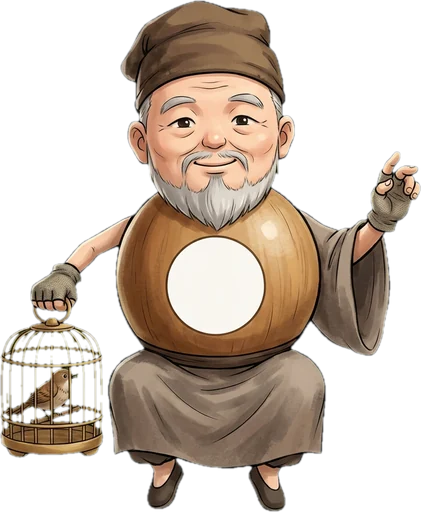
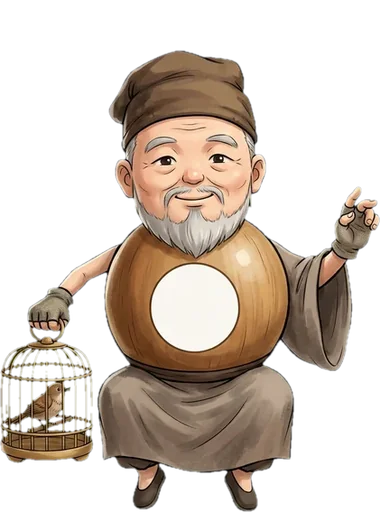
對手一律用畫好的形象（路人、故事人物、擂主、冷面國手、驛站旅人、秘境棋友），身上留白處寫擅長的棋子；平視改成從小帥眼睛看（回饋 430）；點頭像看 3D 人物（431）；故事目錄分站收合（432）；首頁大卡一行（436）

diff --git a/index.html b/index.html
@@ -271,7 +271,7 @@ html[data-era=ming] .topbar,html[data-era=qing] .topbar{border-bottom-width:4px}
 #preov{position:fixed;inset:0;z-index:9999;display:flex;align-items:flex-end;justify-content:center;background:#F3ECDD;padding:24px max(24px,env(safe-area-inset-left,0px)) max(28px,env(safe-area-inset-bottom,0px));transition:opacity .4s;overflow:hidden}#preov.out{opacity:0}
 .hub3{display:grid;gap:12px;margin-top:6px}.hub3 .hubc{display:flex!important;flex-direction:row!important;align-items:center!important;justify-content:flex-start!important;gap:14px;width:100%;min-height:112px;padding:16px 16px 16px 14px!important;text-align:left!important;position:relative}
 .hubc .hi{font-size:40px;width:64px;height:64px;display:flex;align-items:center;justify-content:center;flex:none;margin:0!important}.hubc .hi img{width:56px;height:56px;object-fit:contain}
-.hubc .tx{display:flex!important;flex-direction:column;gap:4px;flex:1;min-width:0;align-items:flex-start!important;text-align:left!important}.hubc .t{font-family:var(--serif);font-size:24px!important;font-weight:900;letter-spacing:.14em;line-height:1.2}.hubc .s{font-size:13px;line-height:1.5;color:var(--muted);white-space:normal!important;overflow:visible!important;text-overflow:clip!important;display:block}.hubc .go{flex:none;font-size:22px;color:var(--muted);margin:0!important}.hubc .bd{position:static!important;margin-left:8px;vertical-align:middle;letter-spacing:0;font-size:11px}
+.hubc .tx{display:flex!important;flex-direction:column;gap:4px;flex:1;min-width:0;align-items:flex-start!important;text-align:left!important}.hubc .t{font-family:var(--serif);font-size:24px!important;font-weight:900;letter-spacing:.14em;line-height:1.2}.hubc .s{font-size:13px;line-height:1.5;color:var(--muted);white-space:nowrap!important;overflow:hidden!important;text-overflow:ellipsis!important;display:block;max-width:100%}.hubc .go{flex:none;font-size:22px;color:var(--muted);margin:0!important}.hubc .bd{position:static!important;margin-left:8px;vertical-align:middle;letter-spacing:0;font-size:11px}
 .hubc.hb{border-color:color-mix(in srgb,#C8102E 40%,var(--line))}.hubc.ha{border-color:color-mix(in srgb,#8A5A2B 45%,var(--line))}.hubc.hl{border-color:color-mix(in srgb,#2E6E5E 45%,var(--line))}
 #sndPill{position:fixed;right:calc(12px + env(safe-area-inset-right,0px));bottom:calc(76px + env(safe-area-inset-bottom,0px));z-index:9000;padding:6px 12px;border-radius:99px;background:rgba(30,22,14,.78);color:#F6E7CF;font-size:13px;font-weight:700;pointer-events:none;animation:sndp 1.6s ease-in-out infinite}@keyframes sndp{50%{opacity:.6}}@media (prefers-reduced-motion:reduce){#sndPill{animation:none}}
 .instc{display:flex;align-items:center;gap:12px;width:100%;margin:0 0 12px;padding:12px 14px;text-align:left;font:inherit;color:inherit;cursor:pointer;border:2px dashed color-mix(in srgb,var(--accent) 55%,var(--line));background:color-mix(in srgb,var(--accent) 7%,var(--card))}.instc .ii{font-size:30px;flex:none}.instc .tx{display:flex;flex-direction:column;flex:1;min-width:0}.instc small{color:var(--muted);font-size:12.5px;line-height:1.5}.instc .go{color:var(--accent);font-size:20px}
@@ -279,6 +279,8 @@ html[data-era=ming] .topbar,html[data-era=qing] .topbar{border-bottom-width:4px}
 .pkview{position:absolute;right:calc(10px + env(safe-area-inset-right,0px));top:10px;z-index:6;border:none;border-radius:99px;padding:5px 11px;font:inherit;font-size:12.5px;font-weight:700;color:#F6E7CF;background:rgba(30,22,14,.55);backdrop-filter:blur(3px);cursor:pointer}
 .pkhint{position:absolute;inset:0;z-index:7;display:flex;flex-direction:column;align-items:center;justify-content:center;gap:4px;background:rgba(20,14,8,.38);color:#fff;text-align:center;pointer-events:none;transition:opacity .5s}.pkhint.out{opacity:0}.pkhint b{font-size:17px;margin-top:6px}.pkhint span{font-size:13px;opacity:.9}
 .pkh-hand{font-size:46px;animation:pkswipe 1.5s ease-in-out infinite}@keyframes pkswipe{0%,100%{transform:translateX(-46px)}50%{transform:translateX(46px)}}@media (prefers-reduced-motion:reduce){.pkh-hand{animation:none}}
+#pTop .av{cursor:pointer}
+.chg{margin:0 0 8px;border:1px solid var(--line);border-radius:14px;background:var(--card);overflow:hidden}.chg>summary{display:flex;justify-content:space-between;align-items:center;gap:8px;padding:12px 14px;cursor:pointer;list-style:none}.chg>summary::-webkit-details-marker{display:none}.chg>summary b{font-family:var(--serif)}.chg>summary span{color:var(--muted);font-size:13px;font-variant-numeric:tabular-nums}.chg>summary::after{content:"▾";color:var(--muted);margin-left:6px}.chg[open]>summary::after{content:"▴"}.chg .items{padding:0 8px 8px!important}
 .lvh{display:flex;justify-content:space-between;align-items:baseline;gap:8px;flex-wrap:wrap;margin:2px 2px 8px}.lvh b{font-family:var(--serif);font-size:17px}.lvh span{color:var(--muted);font-size:12.5px;font-variant-numeric:tabular-nums}
 .lvsay{line-height:1.85;white-space:pre-wrap;font-size:15px}.lvno{border-color:color-mix(in srgb,var(--red,#B5452B) 45%,transparent)}
 .lvch{display:grid;gap:8px;margin-top:10px}.lvch .btn{white-space:normal;text-align:left;width:100%}
@@ -551,7 +553,7 @@ html[data-era=ming] .topbar,html[data-era=qing] .topbar{border-bottom-width:4px}
       if(!window.caches)return go();caches.keys().then(function(ks){return Promise.all(ks.filter(function(k){return k.indexOf("xqlab-app-")===0}).map(function(k){return caches.delete(k)}))})
         .then(function(){return navigator.serviceWorker&&navigator.serviceWorker.getRegistration()}).then(function(r){return r&&r.update()}).catch(function(){}).then(go)}};setTimeout(chk,4000)})();
 </script>
-<script>window.XQ_OFFLINE=true;window.XQ_BUILD="20261104-1243";</script>
+<script>window.XQ_OFFLINE=true;window.XQ_BUILD="20261104-1342";</script>
 <script src="core.js"></script>
 <script src="engine.js"></script>
 <script src="local.js"></script>
@@ -1763,8 +1765,8 @@ function Home(v,hub){   /* hub：沒有＝首頁三張大卡；"battle"＝對戰
    ${!hub&&!store.get("campSeen",false)&&!Object.keys(store.get("record",{})).length?`<button class="card instc" data-go="#/camp"><span class="ii">🔰</span><span class="tx"><b>第一次下象棋？</b><small>從新手訓練營開始：12 堂小課，每課親手走一步</small></span><b class="go">›</b></button>`:""}
    ${!hub?`<div class="hub3">
      <button class="tile hubc hb" data-go="#/hub/battle"><span class="hi">⚔</span><span class="tx"><span class="t">對戰</span><span class="s" id="hNet">挑戰電腦・線上對戰・朝代擂台</span></span><b class="go">›</b></button>
-     ${OFF?(()=>{const L=legendState(),J=jStages(),I=xpInfo();return`<button class="tile hubc ha" data-go="#/adventure"><span class="hi">🪨</span><span class="tx"><span class="t">冒險</span><span class="s" id="hLegend">石桌往事・Lv ${I.L} ${I.title}・故事 ${L.n}／36 回・雲河棋路 ${L.pass||0}／${J.length} 關</span></span><b class="go">›</b></button>`})():""}
-     <button class="tile hubc hl" data-go="#/hub/learn"><span class="hi">📚</span><span class="tx"><span class="t">學習</span><span class="s">測驗・猜著法・錯棋重練・我的開局・棋譜庫・規則</span></span><b class="go">›</b></button>
+     ${OFF?(()=>{const L=legendState(),J=jStages(),I=xpInfo();return`<button class="tile hubc ha" data-go="#/adventure"><span class="hi">🪨</span><span class="tx"><span class="t">冒險</span><span class="s" id="hLegend">故事 ${L.n}／36 回・棋路 ${L.pass||0}／${J.length} 關・Lv ${I.L}</span></span><b class="go">›</b></button>`})():""}
+     <button class="tile hubc hl" data-go="#/hub/learn"><span class="hi">📚</span><span class="tx"><span class="t">學習</span><span class="s">訓練營・測驗・主題訓練・猜著法・棋譜</span></span><b class="go">›</b></button>
    </div>`:""}
    ${hub==="battle"?`<div class="sec-t" style="margin-top:4px">實戰</div>
    <div class="hero strips">
@@ -3225,7 +3227,7 @@ const JCHAR={liu_young:{name:"少年柳寒舟",pc:"砲",hat:"hair",hc:"#1E1A16",
   scholar:{name:"江南書生",pc:"士",hat:"fangjin",hc:"#151515",robe:"#3A4A6A",hi:"在棋盤上，論理不論勢。",win:"承讓，承讓。",lose:"小生佩服。"},
   liu_old:{name:"柳寒舟",pc:"砲",hat:"bun",hc:"#D8D6D0",robe:"#8A8A86",hi:"你走那步車，讓我想起一個人。",win:"還是太急了。",lose:"好……好棋。"}};
 /* 3D 園子的對手一律是立體小人（意見回饋 377），所以故事角色跟路人一樣用帽子、髮色、衣服顏色來分；畫好的立繪（data/journey/char_*）留給對話和人物頁用 */
-const JCHAR_LOOK=(k,side)=>JCHAR[k]?NPC_LOOK({...JCHAR[k],say:JCHAR[k].hi},side):null;
+const JCHAR_LOOK=(k,side)=>JCHAR[k]?{...NPC_LOOK({...JCHAR[k],say:JCHAR[k].hi},side),...(CHAMP_META?{flat:true,sprite:`data/journey/char_${k}_`,spriteMeta:{...CHAMP_META,mask:true,faceOf:faceOf("journey",{idle:`char_${k}_idle`,think:`char_${k}_think`,move:`char_${k}_move`,happy:`char_${k}_win`,sad:`char_${k}_lose`,surprise:`char_${k}_think`},`char_${k}_idle`)},spriteMap:{happy:"win",sad:"lose",surprise:"think"}}:{})}:null;   /* 故事人物也用畫好的形象（5 個姿勢） */
 /* 意見回饋 400：點人物看大幅完整的 3D 小人，左右拖曳可以轉；3D 載入失敗就顯示畫像 */
 async function figView(look,title,html,btns,img){sheet(title,async b=>{
   b.innerHTML=`<div id="fv" style="position:relative;aspect-ratio:1;max-height:56vh;margin:0 auto;border-radius:14px;overflow:hidden;touch-action:none;background:radial-gradient(circle at 50% 38%,#F6EEDF,#CDBB9C)"></div><p class="muted" style="text-align:center;font-size:12.5px;margin:6px 0 10px">左右拖曳可以轉動</p>${html||""}<div class="lvch" id="fvb"></div>`;
@@ -3255,7 +3257,7 @@ function jcharSheet(k){const c=JCHAR[k];if(!c)return;const lv=JCHAR_LV[k]||3;
 /* 人物與年表：點人物看 3D 小人（照人物設定配的帽子、衣服） */
 const PEOPLE_LOOK={"沈石川":{pc:"馬",hat:"bun",hc:"#E8E6E0",robe:"#5E6B5C"},"柳寒舟":{pc:"砲",hat:"bun",hc:"#D8D6D0",robe:"#8A8A86"},"阿古拉":{pc:"車",hat:"fur",hc:"#F0EDE6",robe:"#3E6FA8"},"周文淵":{pc:"士",hat:"fangjin",hc:"#151515",robe:"#7A2E2A"},
   "柳老篙":{pc:"卒",hat:"cap",hc:"#C9A86A",robe:"#7A6A50"},"秦小禾":{pc:"象",hat:"buns",hc:"#2A1D16",robe:"#C76B6B"},"朱元璋":{pc:"將",hat:"fangjin",hc:"#2A1D16",robe:"#B8862E"},"錢小滿":{pc:"兵",hat:"hair",hc:"#2A1D16",robe:"#8A6A3A"}};
-const CHAMP_LOOK=(era,side)=>CHAMP_META&&ARENA[era]?{p:side==="r"?"帥":"將",e:era,g:1,thin:true,sprite:`data/champ/${era}_`,spriteMeta:CHAMP_META,spriteMap:{happy:"win",sad:"lose",surprise:"think"}}:null;
+const CHAMP_LOOK=(era,side)=>CHAMP_META&&ARENA[era]?{p:side==="r"?"帥":"將",e:era,g:1,thin:true,flat:true,sprite:`data/champ/${era}_`,spriteMeta:CHAMP_META,spriteMap:{happy:"win",sad:"lose",surprise:"think"}}:null;
 /* 意見回饋 425：石桌往事的園子（第一集、第二集以後共用）每次開一盤，隨機遇到一位路人棋友（不會連續兩次同一位），難度以玩家等級為中心上下浮動一級。
    立繪 data/npc/<id>.webp（Gemini 畫的，還沒有就只顯示名字）；3D 用 bot3d.js 的路人造型（hat 帽子／頭髮、hc 顏色、robe 衣服、band 頭帶、acc 髮簪／花），不受「Pikafish 造型」設定影響；pc 是身上那顆棋子（黑方的字） */
 const PARK_NPC=[
@@ -3270,7 +3272,12 @@ const PARK_NPC=[
   {id:"genggu",name:"打更的老更夫",pc:"砲",say:"天還沒黑，梆子先擱著，陪你下。",win:"梆梆！這盤收了。",lose:"天要黑了，你這盤下得好。",hat:"fur",hc:"#5A5A62",robe:"#4A4A52"},
   {id:"maihua",name:"賣花的姑娘",pc:"象",say:"這枝梅花當彩頭，你贏了就送你。",win:"梅花我先留著，下次再送你。",lose:"說話算話，這枝梅花送你！",hat:"flower",hc:"#2A1D16",acc:"#F07AA0",robe:"#C76B8A"}];
 const npcPc=(n,side)=>side==="r"?({將:"帥",士:"仕",象:"相",車:"俥",馬:"傌",砲:"炮",卒:"兵"}[n.pc]||"帥"):n.pc||"將";
-const NPC_LOOK=(n,side)=>({p:npcPc(n,side),e:store.get("era","classic"),g:9,npc:n.name,about:n.say,hat:n.hat,hc:n.hc,robe:n.robe,band:n.band||null,acc:n.acc||null});
+/* 開發者：角色身體中間留白的圓，下棋時寫上他擅長的棋子（紅方紅字、黑方黑字）。圓的位置是 tools/face_detect.py 自動找的（faces.json），
+   被道具擋住、找不到圓的那張就不寫字；擅長的棋子寫在各角色的 pc，要改只改這裡，不用重畫 */
+const FACES={};for(const k of["npc","actors","journey"])fetch(`data/${k}/faces.json`).then(r=>r.ok?r.json():{}).then(j=>{FACES[k]=j}).catch(()=>{});
+const faceOf=(dir,map,fallback)=>{const F=FACES[dir];if(!F)return null;const o={};for(const[ps,stem]of Object.entries(map))o[ps]=F[stem]||F[fallback]||null;return Object.values(o).some(Boolean)?o:null};
+const ACTOR_PC={liuji:"砲",zhangsanfeng:"馬",shinaian:"卒",shenwansan:"象",changyuchun:"車",wangmian:"砲",tea:"卒",scholar:"士",guard:"車",monk:"象",teller:"砲"};
+const NPC_LOOK=(n,side)=>({p:npcPc(n,side),e:store.get("era","classic"),g:9,npc:n.name,about:n.say,hat:n.hat,hc:n.hc,robe:n.robe,band:n.band||null,acc:n.acc||null,...(n.id?{flat:true,sprite:"data/npc/",spriteMeta:{w:380,h:512},spriteMap:{idle:n.id,think:n.id,move:n.id,happy:n.id,sad:n.id,surprise:n.id},spriteMeta:{w:380,h:512,mask:true,faceOf:faceOf("npc",{idle:n.id,think:n.id,move:n.id,happy:n.id,sad:n.id,surprise:n.id},n.id)}}:{})});   /* 開發者：園子下棋時用路人畫好的形象 */
 /* 難度：以玩家等級換算的園子等級（parkLv）為中心，隨機 -1／0／0／+1，限制在電腦的 1～8 級內 */
 const parkNpcLv=()=>Math.max(1,Math.min(8,parkLv()+[-1,0,0,1][Math.floor(Math.random()*4)]));
 /* 開了新的一盤園子：記下這盤（game）遇到誰；keep＝同一位再下一盤，不然隨機挑一位、不跟上一位重複 */
@@ -3279,9 +3286,12 @@ function parkNpcNew(game,lv,keep){const last=store.get("parkNpcLast",""),pool=PA
 /* 這盤園子的對手是誰（舊的、沒有記錄的盤用編號固定挑一位，不會每次重畫換人） */
 function parkNpcOf(st){if(!st||st.journey!=="park"||st.arena)return null;const r=store.get("parkNpc",null);if(r&&r.game===st.id)return PARK_NPC.find(x=>x.id===r.id)||PARK_NPC[0];
   let h=0;for(const c of String(st.id||""))h=(h*31+c.charCodeAt(0))>>>0;return PARK_NPC[h%PARK_NPC.length]}
-const npcHTML=(side,n,sub)=>`<div class="av ${side} npc">${esc(npcPc(n,side))}<img src="data/npc/${n.id}.webp" alt="" onerror="this.remove()"></div><div class="nm"><b>${esc(n.name)}</b><span>${esc(sub||"")}</span></div>`;
+const npcHTML=(side,n,sub)=>`<div class="av ${side} npc" role="button" aria-label="看${esc(n.name)}的 3D 人物">${esc(npcPc(n,side))}<img src="${n.img||`data/npc/${n.id}.webp`}" alt="" onerror="this.remove()"></div><div class="nm"><b>${esc(n.name)}</b><span>${esc(sub||"")}</span></div>`;
 let NPC_HI=null;   /* 已經打過招呼的那盤園子（同一個 3D 園子裡再下一盤時，新的對手開口打招呼） */
-const PIKA_LOOK=side=>({p:side==="r"?"帥":"將",e:store.get("era","classic"),g:1,thin:true,wl:true,sprite:PIKA_META?PIKA_META_DIR:null,spriteMeta:PIKA_META});
+const PIKA_LOOK=side=>({p:side==="r"?"帥":"將",e:store.get("era","classic"),g:1,thin:true,wl:true,flat:!!PIKA_META,sprite:PIKA_META?PIKA_META_DIR:null,spriteMeta:PIKA_META});
+/* 驛站旅人、秘境棋友：data/actors/<id>.webp（一張立繪，六種表情共用）；3D 人物檢視時用帽子顏色配的立體小人 */
+const ACTOR_LOOK=(id,side)=>({p:npcPc({pc:ACTOR_PC[id]||"將"},side),e:store.get("era","classic"),g:9,flat:true,sprite:"data/actors/",spriteMeta:{w:380,h:512,mask:true,faceOf:faceOf("actors",{idle:id,think:id,move:id,happy:id,sad:id,surprise:id},id)},spriteMap:{idle:id,think:id,move:id,happy:id,sad:id,surprise:id}});
+const innActor=j=>{if(!String(j||"").startsWith("inn:"))return null;const x=INN.concat(SECRETS).find(z=>"inn:"+z.id===j);return x?{...x,pc:ACTOR_PC[x.id]||"將",img:`data/actors/${x.id}.webp`,win:"承讓了，下次再來！",lose:"好棋！佩服。"}:null};
 // 公園棋盤的朝代造型（意見回饋 216）：跟棋盤模式同一套底圖、格線色、棋子底圖、字色、字形
 function parkLook(){const k=store.get("era","classic"),e=curEra(),T=boardTheme(e?"auto":"wood3d"),bk=BOARD_IMG[k]?k:null;
   // 字形晚到（第一次切到這個朝代）：拿上一次的參數重畫公園棋盤，棋子字面才會換成朝代字形（之前這裡什麼都沒做，要等走下一步才換）
@@ -3329,6 +3339,7 @@ function parkDraw(host,bd,board,o,ex){
   if(!window.XQPark3D){bd.svg.style.display="";parkLoad().then(()=>{if(!window.XQPark3D)throw new Error("park3d 沒有載入成功");if(document.body.contains(host))parkDraw(host,bd,board,o,ex)}).catch(()=>{toast("園子 3D 棋盤載入失敗，先用棋盤模式");store.set("park3d",false)});return}
   if(PARK&&(PARK.era!==store.get("era","classic")||(PARK.bg||null)!==(ex.bg||null))){PARK.v.destroy();PARK=null}   // 換了朝代（例如從集章簿換過去）：公園重建
   if(!PARK||PARK.host!==host||!document.body.contains(PARK.v.el)){if(PARK)PARK.v.destroy();
+    if(ex.gate&&ex.gate.qk)ex.gate=Object.assign({},ex.gate,{quote:parkQuote(ex.gate.qk)});   /* 名言只在真的建公園、要顯示過場時才抽，不然每次重畫都抽一次，會跟上次重複 */
     const pv=XQPark3D.create(host,{arena:ex.arena||null,gate:ex.gate||null,bg:ex.bg||null,onTap:i=>ex.tap(i),onInfo:k=>parkInfo(k),onDestroy:()=>{if(PARK&&PARK.v===pv){PARK=null;botVis(true)}}});
     if(!pv){toast("這台裝置沒辦法顯示 3D，先用棋盤模式");store.set("park3d",false);return}PARK={host,v:pv,era:store.get("era","classic"),bg:ex.bg||null};parkUi(host,pv);setTimeout(()=>{try{pv.say(`我是${BOTN()}，幫你加油！`,2.6);if(ex.oppHello)setTimeout(()=>pv.oppSay(ex.oppHello,2.6),1400)}catch(e){}},700)}
   /* 意見回饋 417：園子上方標出朝代和那個朝代對園子的叫法（例如「唐朝・園林」「漢朝・苑囿」） */
@@ -3555,6 +3566,12 @@ function Adventure(v){LEGEND_PREVIEW=false;setTop("🪨 石桌往事","#/");setT
     jResume(v.querySelector("#aRes"));if(0)novelData().then(N=>{const box=v.querySelector("#aNovel");if(!box)return;if(!N){box.innerHTML='<div class="muted" style="padding:8px 2px">長篇載入失敗，等一下再試</div>';return}
       box.innerHTML='<p class="muted" style="margin:0 2px 8px;line-height:1.7;font-size:13.5px">'+esc(N.note||"")+'</p>'+N.chapters.map((c,i)=>'<button class="item" data-nv="'+i+'"><span class="lb">📖</span><span class="tx"><b style="white-space:normal;line-height:1.5">'+esc(c.title)+'</b><span>約 '+Math.round(c.body.replace(/\s/g,"").length/100)/10+' 千字'+((store.get("novelRead",{})[i])?"・讀過了":"")+'</span></span><span class="muted">›</span></button>').join("");
       box.querySelectorAll("[data-nv]").forEach(b=>b.onclick=()=>novelRead(+b.dataset.nv))});
+    {const its=[...v.querySelectorAll("[data-k]")],box=its[0]&&its[0].parentElement;if(box){const nb=document.createElement("div");
+      const cont=document.createElement("button");cont.className="btn";cont.style.cssText="width:100%;margin:0 0 10px";cont.textContent=`📖 讀到第${CNUM(L.n)}回：繼續讀 ›`;cont.onclick=()=>{vibrate(5);legendRead(L.n)};nb.append(cont);
+      for(const R of JR){const d=document.createElement("details");d.className="chg";const mine=its.filter(x=>+x.dataset.k>=R.ch[0]&&+x.dataset.k<=R.ch[1]),got=mine.filter(x=>open(+x.dataset.k)).length;
+        if(L.n>=R.ch[0]&&L.n<=R.ch[1])d.open=true;const sm=document.createElement("summary");sm.innerHTML=`<b>第${CNUM(R.ch[0])}～${CNUM(R.ch[1])}回・${esc(R.name)}</b><span>${got}／${mine.length}</span>`;d.append(sm);
+        const ib=document.createElement("div");ib.className="items";ib.style.padding="0";mine.forEach(x=>ib.append(x));d.append(ib);nb.append(d)}
+      box.replaceWith(nb);setTimeout(()=>{const cur=v.querySelector(`[data-k="${L.n}"]`);if(cur&&location.hash==="#/adventure"&&store.get("advScrolled",0)!==L.n){store.set("advScrolled",L.n)}},0)}}
     v.querySelectorAll("[data-k]").forEach(x=>x.onclick=()=>{const k=+x.dataset.k;if(open(k))legendRead(k)})});
   return{}}
 /* ---------- 🎒 棋童資料：等級、修為、提示棋、棋盤收藏、棋譜、秘境棋友 ---------- */
@@ -3742,7 +3759,7 @@ function ParkGate(v){setTop("🌳 園子","#/adventure");setTabs(false);v.classN
 /* 意見回饋 389：點朝代石頭——石頭先慢慢翻轉，再出現那個朝代的封面（驛站場景圖＋朝代名＋印），然後才進公園下棋；點封面可以跳過 */
 function stoneCover(b,k){return new Promise(res=>{const im=b.querySelector("img")||b;im.classList.add("sflip");vibrate(8);
   const info=(PARK_INFO[k]||PARK_INFO.classic)._||[eraLabel(k),""],seal=(ARENA[k]&&ARENA[k].seal)||"";let done=false;
-  setTimeout(()=>{const c=document.createElement("div");c.className="ecover";c.innerHTML=`<i style="background-image:url(data/inn/${k}.webp)"></i><div><span class="es">${esc(seal)}</span><b>${esc(eraLabel(k))}</b><small>${esc(info[1]||"")}</small></div>`;
+  setTimeout(()=>{const c=document.createElement("div");c.className="ecover";c.innerHTML=`<i style="background-image:url(data/inn/${k}.webp)"></i><div><b>${esc(eraLabel(k))}</b><small>${esc(info[1]||"")}</small></div>`;   /* 開發者：拿掉印章，下面已經寫了朝代名 */
     document.body.append(c);requestAnimationFrame(()=>c.classList.add("on"));
     const fin=()=>{if(done)return;done=true;res();setTimeout(()=>{c.classList.remove("on");setTimeout(()=>c.remove(),600)},700)};c.onclick=fin;setTimeout(fin,1700)},900)})}
 const CNUM=n=>{const c="零一二三四五六七八九";return n<=10?(n===10?"十":c[n]):n<20?"十"+c[n-10]:c[Math.floor(n/10)]+"十"+(n%10?c[n%10]:"")};
@@ -4098,7 +4115,15 @@ function CpuGame(v,practicePage,mode){
     const t=$("#title");t.textContent="";t.append(seg);paintSeg(prefMode());
     seg.querySelectorAll("button").forEach(b=>b.onclick=()=>{vibrate(8);switchMode(b.dataset.m)})}
   function paintSeg(m){if(seg)seg.querySelectorAll("button").forEach(b=>{const on=b.dataset.m===m;b.classList.toggle("on",on);b.setAttribute("aria-selected",on)})}
-  v.querySelector("#pTop").onclick=e=>{if(e.target.closest(".cpu-chip")){vibrate(8);newSheet()}};
+  /* 意見回饋 431：點對手頭像看他的 3D 人物（拖曳可以轉） */
+  const oppInfo=()=>{if(!st)return null;const bot=st.human==="r"?"b":"r",N=parkNpcOf(st),L0=lvPlayOf(st),jk=(L0&&L0.lvp.opp)||(String(st.journey||"").startsWith("char:")?st.journey.slice(5):null);
+    if(jk&&JCHAR[jk])return{look:JCHAR_LOOK(jk,bot),name:JCHAR[jk].name,img:`data/journey/char_${jk}_idle.webp`,say:JCHAR[jk].hi};
+    {const ia=innActor(st.journey);if(ia)return{look:null,name:ia.name,img:ia.img,say:ia.say.replace(/^「|」$/g,"")}}
+    if(st.arena&&ARENA[st.arena])return{look:CHAMP_LOOK(st.arena,bot)||{p:bot==="r"?"帥":"將",e:st.arena,g:9},name:ARENA[st.arena].name,img:`data/champ/${st.arena}_idle.webp`,say:ARENA[st.arena].hi};
+    if(N)return{look:NPC_LOOK(N,bot),name:N.name,img:`data/npc/${N.id}.webp`,say:N.say};
+    return{look:PIKA_LOOK(bot),name:"Pikafish",img:null,say:"我是 Pikafish，請多指教。"}};
+  v.querySelector("#pTop").onclick=e=>{if(e.target.closest(".cpu-chip")){vibrate(8);newSheet();return}
+    if(e.target.closest(".av")){const o=oppInfo();if(!o)return;vibrate(5);figView(o.look,"👤 "+o.name,`<p style="font-size:16px;line-height:1.8;margin:0">「${esc(o.say)}」</p>`,[["關閉",()=>closeSheet(),true]],o.img)}};
   const acts=actionBar(v.querySelector("#acts"),[...(MODE==="journey"&&store.get("jPending",null)?[["jhint","💡","提示",()=>jBattleHint(st,h=>{pHint=h;draw()})]]:[]),["undo","↶","悔棋",()=>post("/play/undo")],
     ["new","＋","新局",()=>newSheet(),true],["resign","🏳","認輸",()=>confirmBox("確定認輸？",()=>post("/play/resign"),"認輸")],["review","📖","檢討",()=>review(false,st&&st.id)],["setup","🧪","擺盤",()=>st&&setupSheet(st.board,st.turn,st.human==="b",!st.ranked)]]);
   async function post(u,b){if(busy)return;busy=true;try{render(await api(u,b||{}))}catch(e){toast(e.message)}finally{busy=false}}
@@ -4109,8 +4134,8 @@ function CpuGame(v,practicePage,mode){
     const o={flip:st.human==="b",last,sel,targets:sel>=0?st.legal.filter(([f])=>f===sel).map(x=>x[1]):[],hint:st.hint?[st.hint.f,st.hint.t]:pHint&&pHint.n===st.moves.length?(pHint.t==null?[pHint.f]:[pHint.f,pHint.t]):null,check:st.check,fx:true};const LVB=lvPlayOf(st);hb.classList.toggle("lvblind",!!(LVB&&LVB.lvp.blind&&!st.result));if(LVB&&LVB.lvp.blind&&!st.result){bd.draw(st.board.map(()=>null),o);return}bd.draw(st.board,o);
     legendCheck(st);legendBadge(v.querySelector("#bbox"),!parkOn()&&legendVisit(st).length>0);
     const JS0=st.journey&&/^h\d\d$/.test(st.journey)?jStages().find(x=>x.id===st.journey):null,JOPP=LVB&&LVB.lvp.opp&&JCHAR[LVB.lvp.opp]?LVB.lvp.opp:String(st.journey||"").startsWith("char:")&&JCHAR[st.journey.slice(5)]?st.journey.slice(5):null;
-    parkDraw(v.querySelector("#bbox"),bd,st.board,o,{tap,bg:JS0?`data/park/j${JR[JS0.r].k}_360.webp`:null,bgName:JS0?"雲河鎮・"+JR[JS0.r].name:null,arena:st.arena||null,gate:st.journey&&!st.arena?(k=>({img:["data/parkgate/"+k+".webp","data/park/"+k+"_360.webp"],icon:"🍃",title:"走進"+parkName(k),sub:"石桌就在前面",bg:"#2b2a22",quote:parkQuote(k)}))(store.get("era","classic")):null,watchers:legendVisit(st),thinking:!!st.thinking||(!st.result&&st.turn!==st.human),botSide:st.human==="r"?"b":"r",result:st.result?(st.result.w||"draw"):null,hint:o.hint,
-      opp:(JOPP&&JCHAR_LOOK(JOPP,st.human==="r"?"b":"r"))||(st.arena&&CHAMP_LOOK(st.arena,st.human==="r"?"b":"r"))||(N?NPC_LOOK(N,st.human==="r"?"b":"r"):PIKA_LOOK(st.human==="r"?"b":"r")),oppHello:JOPP?JCHAR[JOPP].hi:st.arena&&ARENA[st.arena]?ARENA[st.arena].hi:N?N.say:"我是 Pikafish，請多指教。",oppWin:JOPP?JCHAR[JOPP].win:st.arena&&ARENA[st.arena]?ARENA[st.arena].win:N?N.win:"將死了，再接再厲。",oppLose:JOPP?JCHAR[JOPP].lose:st.arena&&ARENA[st.arena]?ARENA[st.arena].lose:N?N.lose:"你贏了，佩服佩服！"});
+    parkDraw(v.querySelector("#bbox"),bd,st.board,o,{tap,bg:JS0?`data/park/j${JR[JS0.r].k}_360.webp`:null,bgName:JS0?"雲河鎮・"+JR[JS0.r].name:null,arena:st.arena||null,gate:st.journey&&!st.arena?(k=>({img:["data/parkgate/"+k+".webp","data/park/"+k+"_360.webp"],icon:"🍃",title:"走進"+parkName(k),sub:"石桌就在前面",bg:"#2b2a22",qk:k}))(store.get("era","classic")):null,watchers:legendVisit(st),thinking:!!st.thinking||(!st.result&&st.turn!==st.human),botSide:st.human==="r"?"b":"r",result:st.result?(st.result.w||"draw"):null,hint:o.hint,
+      opp:(JOPP&&JCHAR_LOOK(JOPP,st.human==="r"?"b":"r"))||(innActor(st.journey)?ACTOR_LOOK(innActor(st.journey).id,st.human==="r"?"b":"r"):null)||(st.arena&&CHAMP_LOOK(st.arena,st.human==="r"?"b":"r"))||(N?NPC_LOOK(N,st.human==="r"?"b":"r"):PIKA_LOOK(st.human==="r"?"b":"r")),oppHello:JOPP?JCHAR[JOPP].hi:st.arena&&ARENA[st.arena]?ARENA[st.arena].hi:N?N.say:"我是 Pikafish，請多指教。",oppWin:JOPP?JCHAR[JOPP].win:st.arena&&ARENA[st.arena]?ARENA[st.arena].win:N?N.win:"將死了，再接再厲。",oppLose:JOPP?JCHAR[JOPP].lose:st.arena&&ARENA[st.arena]?ARENA[st.arena].lose:N?N.lose:"你贏了，佩服佩服！"});
     if(N&&NPC_HI!==st.id){NPC_HI=st.id;if(pk0&&!st.moves.length)setTimeout(()=>{try{if(PARK&&PARK.host===hb)PARK.v.oppSay(N.say,2.6)}catch(e){}},900)}}
   let lastN=null;   // 上一次畫的步數：步數剛好多一步才秀開局名（重新整理、開新局不秀）
   // 意見回饋 274：擂台賽下到結束前只能在公園裡（不能切回棋盤模式）；結束後按鈕恢復
@@ -4131,7 +4156,7 @@ function CpuGame(v,practicePage,mode){
     const lv=st.levels[st.level-1]||{},me=st.human,bot=opp(me);
     const CR=st.cpuRate||{},CB=st.car||{},cpts=st.reward?(CB.table||[])[st.level-1]||0:0;paintSeg(modeOf(st));if(!st.ranked&&st.level&&!st.practice)store.set("cpuLevel",st.level);
     // 對手列右邊：目前的段位／難度，點了開「開新局」選單（換難度、換紅黑）
-    const JP=(()=>{const L=lvPlayOf(st),k=(L&&L.lvp.opp)||(String(st.journey||"").startsWith("char:")?st.journey.slice(5):null);return k&&JCHAR[k]?{...JCHAR[k],say:JCHAR[k].hi}:null})(),NP=parkNpcOf(st)||JP,top=(NP?npcHTML(bot,NP,(JP&&NP===JP?"石桌往事・":"園子裡的路人棋友・")+(lv.desc||"")):playerHTML(bot,st.arena&&ARENA[st.arena]?`🏯 ${ARENA[st.arena].name}`:"Pikafish",st.arena&&ARENA[st.arena]?`${eraLabel(st.arena)}擂主・${st.arena==="classic"?"職業頂尖（全力的前一級）":"強度跟著你的段位"}`:st.ranked?"積分挑戰・強度跟著你的段位":st.reward?`🚗 獎勵模式・贏了 +${cpts} 點`:lv.desc||"自選難度"))+
+    const JP=(()=>{const L=lvPlayOf(st),k=(L&&L.lvp.opp)||(String(st.journey||"").startsWith("char:")?st.journey.slice(5):null);return k&&JCHAR[k]?{...JCHAR[k],say:JCHAR[k].hi,img:`data/journey/char_${k}_idle.webp`}:innActor(st.journey)})(),NP=parkNpcOf(st)||JP,top=(NP?npcHTML(bot,NP,(JP&&NP===JP?"石桌往事・":"園子裡的路人棋友・")+(lv.desc||"")):playerHTML(bot,st.arena&&ARENA[st.arena]?`🏯 ${ARENA[st.arena].name}`:"Pikafish",st.arena&&ARENA[st.arena]?`${eraLabel(st.arena)}擂主・${st.arena==="classic"?"職業頂尖（全力的前一級）":"強度跟著你的段位"}`:st.ranked?"積分挑戰・強度跟著你的段位":st.reward?`🚗 獎勵模式・贏了 +${cpts} 點`:lv.desc||"自選難度"))+
       `<button class="cpu-chip${st.ranked?" rk":""}" aria-label="${st.ranked?"段位與開新局":"換難度"}"><span><b>${st.ranked?"🏅 "+esc(st.rkName||CR.rank||""):(st.reward?"🚗 ":"")+"第 "+st.level+" 級"}</b><small>${st.ranked?(CR.pts||0)+" 分":st.reward?(CB.pts||0).toLocaleString()+" 點":esc(lv.name||"")}</small></span><i>›</i></button>`;
     const pT=v.querySelector("#pTop");if(pT.dataset.h!==top){pT.dataset.h=top;pT.innerHTML=top}
     const bt=playerHTML(me,"你",PLAYER[me]+(st.ranked&&CR.next?`・再 ${CR.toNext} 分升 ${CR.next}`:"")+(st.reward?`・🚗 ${(CB.pts||0).toLocaleString()} 點`:""));

diff --git a/park3d.js b/park3d.js
@@ -1012,10 +1012,16 @@
     const SPR_H=11.2,SPR_Y=SY-2.5,SPR_Z=BZ+2.6,SPR_TILT=-.18;
     let oppSpr=null;const POSES=["idle","think","move","happy","sad","surprise"];
     const killSpr=()=>{if(oppSpr){sc.remove(oppSpr.sp);oppSpr.sp.material.dispose();oppSpr=null}opp.g.visible=true};
-    const makeSpr=look=>{const base=look.sprite,meta=look.spriteMeta,ch=look.p||"將",red=ch==="帥",ims={};let n=0;
+    const makeSpr=look=>{const base=look.sprite,meta=look.spriteMeta,ch=look.p||"將",red="帥仕相俥傌炮兵".includes(ch),ims={};let n=0;
       const done=()=>{if(++n<POSES.length||oppKey!==JSON.stringify(look))return;
-        const f=meta.face,tex={};for(const ps of POSES){const im=ims[ps];
-          tex[ps]=cv(meta.w,meta.h,(g,w,h)=>{g.clearRect(0,0,w,h);g.drawImage(im,0,0,w,h);if(!f)return;   /* 擂主（Gemini 畫的人物）沒有字圈，不寫字 */
+        const tex={};for(const ps of POSES){const im=ims[ps],f=(meta.faceOf&&meta.faceOf[ps])||meta.face;
+          tex[ps]=cv(meta.w,meta.h,(g,w,h)=>{g.clearRect(0,0,w,h);g.drawImage(im,0,0,w,h);if(!f)return;
+            if(meta.mask){try{const cx=f.cx*w,cy=f.cy*h,r=f.r*w,o=document.createElement("canvas");o.width=w;o.height=h;const og=o.getContext("2d");
+              og.fillStyle=red?"#B3141B":"#1A1410";og.font=`900 ${r*1.15}px "Noto Serif TC","PMingLiU","Songti TC","SimSun",serif`;og.textAlign="center";og.textBaseline="middle";og.fillText(ch,cx,cy+r*.04);
+              const base=g.getImageData(0,0,w,h).data,od=og.getImageData(0,0,w,h),t=od.data;
+              for(let i=0;i<t.length;i+=4){if(!t[i+3])continue;const mn=Math.min(base[i],base[i+1],base[i+2]),sat=Math.max(base[i],base[i+1],base[i+2])-mn;
+                const k=base[i+3]<200?0:Math.min(1,Math.max(0,(mn-215)/25))*Math.min(1,Math.max(0,(30-sat)/15));t[i+3]=t[i+3]*k}
+              og.putImageData(od,0,0);g.drawImage(o,0,0)}catch(e){}return}   /* 開發者：字只寫在身上留白的圓，不能蓋到臉、手、道具 */   /* 擂主（Gemini 畫的人物）沒有字圈，不寫字 */
             const cx=f.cx*w,cy=(f.cy+.01)*h,r=f.r*w*.86,ink=red?"#B3141B":"#1A1410";g.strokeStyle=ink;g.lineWidth=r*.07;g.beginPath();g.arc(cx,cy,r*.9,0,TAU);g.stroke();
             g.fillStyle=ink;g.font=`900 ${r*1.25}px "Noto Serif TC","PMingLiU","Songti TC","SimSun",serif`;g.textAlign="center";g.textBaseline="middle";g.fillText(ch,cx,cy+r*.06)})}
         // 直立的面板（不是永遠正對鏡頭的那種）：鏡頭從上往下看時才不會往後倒、插進靠背裡
@@ -1023,7 +1029,7 @@
         const geo=new T.PlaneGeometry(H*meta.w/meta.h,H);geo.translate(0,H/2,0);const sp=new T.Mesh(geo,mat);sp.renderOrder=2;
         const y0=SPR_Y;sp.position.set(0,y0,SPR_Z);sp.rotation.x=SPR_TILT;sc.add(sp);oppSpr={sp,tex,pose:"idle",y0};opp.g.visible=false};
       for(const ps of POSES){const src=base+((look.spriteMap&&look.spriteMap[ps])||ps)+".webp",   /* 擂主只有 idle、think、move、win、lose：用 spriteMap 對到 Pikafish 的六種姿勢 */im=loadImg(src,()=>{ims[ps]=imgCache[src];done()});if(im){ims[ps]=im;done()}}};
-    const setOpp=look=>{const k=JSON.stringify(look||null);if(k===oppKey)return;oppKey=k;killSpr();if(!look){opp.g.clear();opp.B=null;return}buildActor(opp,look);opp.g.visible=true};   /* 意見回饋 377：對手（Pikafish、擂主）一律用 3D 立體的，繞著桌子轉也是立體的 */
+    const setOpp=look=>{const k=JSON.stringify(look||null);if(k===oppKey)return;oppKey=k;killSpr();if(!look){opp.g.clear();opp.B=null;return}if(look.flat&&look.sprite&&look.spriteMeta){opp.g.clear();opp.B=null;makeSpr(look);return}buildActor(opp,look);opp.g.visible=true};   /* 開發者：園子的路人棋友、故事人物用 Gemini 畫好的形象（平面立牌） */   /* 意見回饋 377：對手（Pikafish、擂主）一律用 3D 立體的，繞著桌子轉也是立體的 */
     // 我這一側的小帥：平常是自己的；觀戰時換成棋盤近端那一方玩家的小帥（意見回饋 259）
     let mateKey=null;const setMate=look=>{const k=JSON.stringify(look||null);if(k===mateKey)return;mateKey=k;mate.g.position.y=MSEAT;mate.g.userData.y0=null;
       buildActor(mate,look||{});mateTop();try{mate.g.updateMatrixWorld(true);const b=new T.Box3().setFromObject(mate.g);mate.g.position.y-=b.min.y-(MSEAT+.02)}catch(e){}};   // 坐在自己的椅子上（座面 y=MSEAT）
@@ -1252,6 +1258,6 @@
     // 意見回饋 244：切回平面棋盤時只藏起來、暫停繪製（不拆掉 3D 場景），再切回公園就直接顯示，不用重新載入
     /* 意見回饋 370：棋盤格 → 螢幕座標（App 的吃子水墨圈畫在公園棋盤的那一格上） */
     const screenOf=i=>{try{const[x,z]=pos(i),v=new T.Vector3(x,TOP,z).project(cam),r=el.getBoundingClientRect();if(!r.width)return null;return{x:r.left+(v.x+1)/2*r.width,y:r.top+(1-v.y)/2*r.height}}catch(e){return null}};
-    return{el,draw,destroy,say,screenOf,whenShown(f){if(shown)f();else shownCb.push(f)},oppSay:(t,d)=>opp.say(t,d),resetView(){reset()},setView(m){tyaw=0;tpitch=m==="top"?.5:m==="flat"?-.85:0;tzoom=1},hide(){el.style.display="none"},show(){if(el.style.display==="none"){el.style.display="";fit()}}}}
+    return{el,draw,destroy,say,screenOf,whenShown(f){if(shown)f();else shownCb.push(f)},oppSay:(t,d)=>opp.say(t,d),resetView(){reset()},setView(m){tyaw=0;tpitch=typeof m==="number"?m:m==="top"?.5:m==="flat"?-.3:0;tzoom=1;mate.g.visible=m!=="flat"},   /* 平視＝從小帥的眼睛看出去（小帥先藏起來，不會擋住棋盤） */   /* 意見回饋 430：平視原本 -.85，鏡頭跑到小帥背後被擋住，改成 -.22 */hide(){el.style.display="none"},show(){if(el.style.display==="none"){el.style.display="";fit()}}}}
   window.XQPark3D={create};
 })();

diff --git a/sw.js b/sw.js
@@ -1,7 +1,7 @@
 // Service worker：
 // 1) 離線快取：App、古譜、引擎存在手機裡；神經網路檔（48 MB）放在另一個快取，更新 App 時不用重新下載
 // 2) 多執行緒：幫每個回應加上 COOP/COEP 標頭（WebAssembly 多執行緒需要「跨來源隔離」，GitHub Pages 自己不能設）
-const VERSION="20261104-1243";
+const VERSION="20261104-1342";
 const APP_CACHE="xqlab-app-"+VERSION,ENGINE_CACHE="xqlab-engine";
 const APP_FILES=["./","index.html","core.js","engine.js","local.js","manifest.json","icon.svg","icon-180.png","icon-512.png","qrcode.min.js","jsQR.min.js","net.js","bot3d.js","park3d.js","engine/pikafish.js","engine/pikafish.wasm",
   "data/books.json","data/shiqingyaqu.json","data/juzhongmi.json","data/meihuapu.json","data/kaiju.json","data/canju.json","data/xuyinchuan.json","data/big-books.json","data/quiz.json","data/terms.json","data/gmbios.json","data/cars.json","three.min.js","map3d.js","data/park-legend.json","data/park-novel.json","data/preload.json"];   /* 意見回饋 422：3D 程式和故事也一起先存 */
@@ -27,7 +27,7 @@ self.addEventListener("fetch",e=>{
     // 特級大師對局（33 MB）：存在不跟版本走的快取，發新版不用重新下載
     if(isBig){const c=await caches.open("xqlab-data"),hit=await c.match(req.url);if(hit)return isolate(hit);const res=await fetch(req.url,{cache:"no-cache"});if(res.ok)await c.put(req.url,res.clone());return isolate(res)}
     // 外觀圖（朝代棋盤、棋子、字形）：存在獨立快取，改版也不用重抓
-    if(/\/data\/(boards|pieces|glyphs|sfx|voice|qa|park|park3d|pika|pika2|path|inn|map|stonetable|treasure|legend|champ|stones|seat|pano|pieceset|journey|xs|people|icons|arenagate|parkgate|pset|map3d|levels|npc|loading|blind)\//.test(url.pathname)&&!url.searchParams.has("fresh")){const c=await caches.open("xqlab-look"),hit=await c.match(req.url);if(hit)return isolate(hit);const res=await fetch(req.url,{cache:"no-cache"});if(res.ok)await c.put(req.url,res.clone());return isolate(res)}
+    if(/\/data\/(boards|pieces|glyphs|sfx|voice|qa|park|park3d|pika|pika2|path|inn|map|stonetable|treasure|legend|champ|stones|seat|pano|pieceset|journey|xs|people|icons|arenagate|parkgate|pset|map3d|levels|npc|loading|blind|actors)\//.test(url.pathname)&&!url.searchParams.has("fresh")){const c=await caches.open("xqlab-look"),hit=await c.match(req.url);if(hit)return isolate(hit);const res=await fetch(req.url,{cache:"no-cache"});if(res.ok)await c.put(req.url,res.clone());return isolate(res)}
     if(isNnue){const c=await caches.open(ENGINE_CACHE),hit=await c.match(req.url);if(hit)return isolate(hit);return isolate(await fetch(req))}
     const c=await caches.open(APP_CACHE);
     // 頁面：用這一版快取裡的（跟 JS 檔同一版，不會新頁面配舊程式）；新版由 App 檢查更新後重新載入
